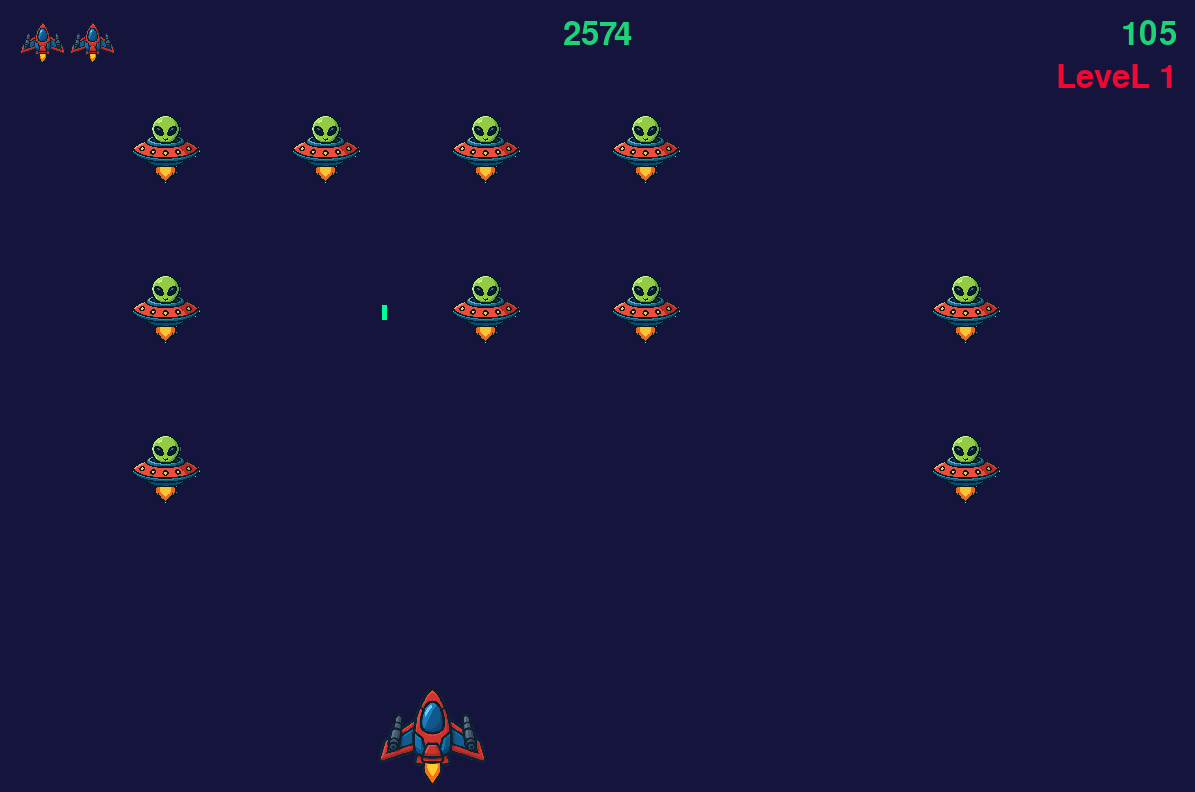
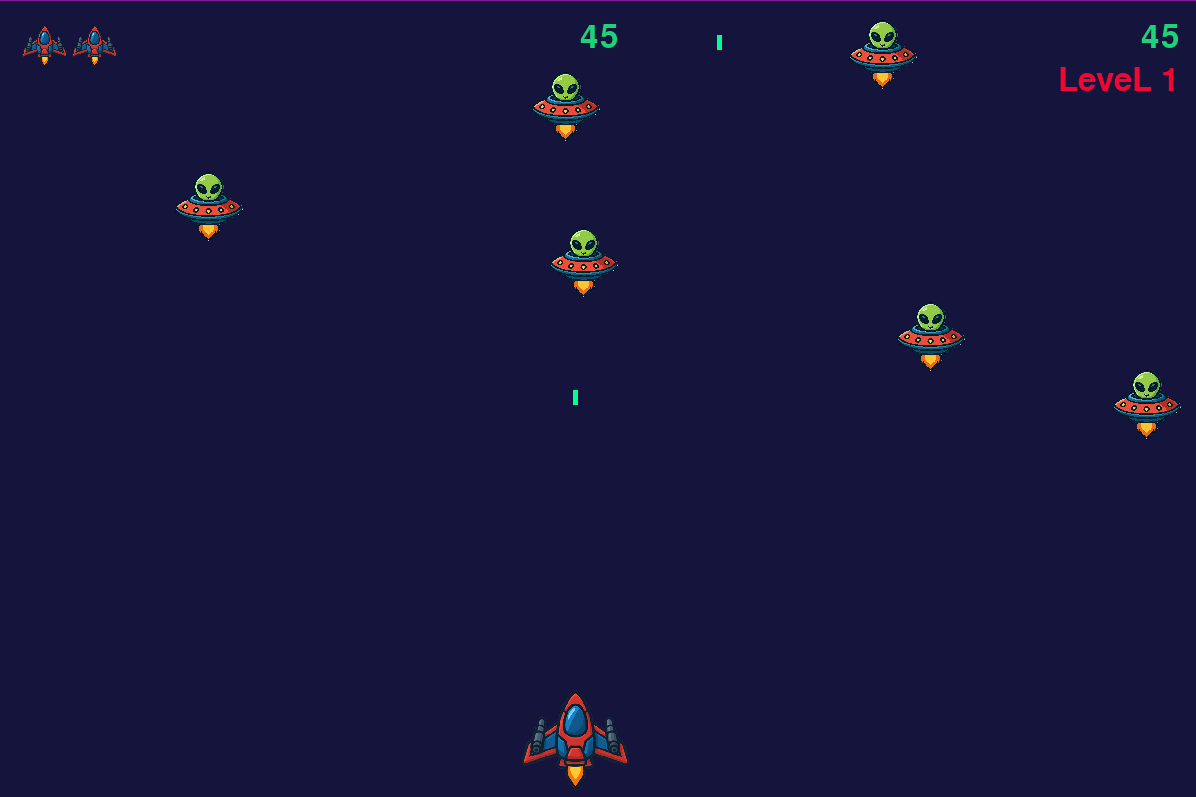
feat: changed alien movement from grid to ramdom

diff --git a/main.py b/main.py
@@ -128,41 +128,16 @@ class AlienInvasion:
     
     def _create_fleet(self):
         alien = Alien(self)
-        alien_width, alien_height = alien.rect.size
-
-        #  Вычисление кол-ва пришельцев по горизонтали
-        available_space_x = self.settings.screen_width - (2 * alien_width)
-        number_aliens_x = available_space_x // (2 * alien_width)
-        #  Вычисление кол-ва пришельцев по вертикали
-        available_space_y = self.settings.screen_height - (3 * alien_height)
-        number_aliens_y = available_space_y // (2 * alien_height)
-
-        #  Создаем флот
-        for x_num in range(number_aliens_x):
-            for y_num in range(number_aliens_y):
-                self._create_alien(x_num, y_num)
-
-    def _create_alien(self, x_num, y_num):
-        alien = Alien(self)
-        alien_width, alien_height = alien.rect.size
-        alien.rect.x = alien_width + (2 * alien_width * x_num)
-        alien.rect.y = alien_height + (2 * alien_height * y_num)
-        alien.x = alien.rect.x
-        self.aliens.add(alien)
-
-                  
-    def _check_fleet_edges(self):
-        """Реагирует на достижение прищельцеп края экрана"""
-        for alien in self.aliens.sprites():
-            if alien.check_edges():
-                self._change_fleet_direction()
-                break
-
-    def _change_fleet_direction(self):
-        """Опускает весь флот и меняет направление движения"""
-        for alien in self.aliens.sprites():
-            alien.rect.y += self.settings.fleet_drop_speed
-        self.settings.fleet_direction *= -1    
+        for one_alien in range(self.settings.aliens_number):
+            alien = Alien(self)
+            y = random.randrange(-350, -20)
+            x = random.randrange(100, self.settings.screen_width - 100)
+            alien.rect.y = y
+            alien.rect.x = x
+            alien.x = alien.rect.x
+            alien.y = alien.rect.y
+            self.aliens.add(alien)
+  
 
     def _ship_hit(self):
         """Обрабатывает столкновение корабля с пришельцем"""
@@ -193,7 +168,7 @@ class AlienInvasion:
 
     def _update_aliens(self):
         self.aliens.update()
-        self._check_fleet_edges()
+        #self._check_fleet_edges()
 
         #  Проверка коллизий "пришелец - корабль"
         if pygame.sprite.spritecollideany(self.ship, self.aliens):

diff --git a/src/alien.py b/src/alien.py
@@ -1,3 +1,4 @@
+import random
 import pygame
 from pygame.sprite import Sprite
 
@@ -7,6 +8,7 @@ class Alien(Sprite):
         super().__init__()
 
         self.screen = sg.screen
+        self.screen_rect = self.screen.get_rect()
         self.settings = sg.settings
 
         self.image = pygame.image.load('assets/images/alien.bmp')
@@ -18,6 +20,16 @@ class Alien(Sprite):
         self.rect.y = self.rect.height
 
         self.x = float(self.rect.x)
+        self.y = float(self.rect.y)
+
+        #  Создаем случайные значения для скорости и направления пришельцев
+        self.rand_direction = random.randrange(2)
+        if self.rand_direction == 0:
+            self.direction = -1
+        else:
+            self.direction = 1
+        self.x_speed = random.uniform(self.settings.x_min_speed, self.settings.x_max_speed)
+        self.y_speed = random.uniform(self.settings.y_min_speed, self.settings.y_max_speed)
 
     def check_edges(self):
         """Возвраащет True, если пришелец находится у края экрана"""
@@ -27,5 +39,12 @@ class Alien(Sprite):
 
     def update(self):
         """Перемещает пришельца вправо"""
-        self.x += self.settings.alien_speed_factor * self.settings.fleet_direction
+        self.x += self.x_speed * self.direction
         self.rect.x = self.x
+        self.y += self.y_speed
+        self.rect.y = self.y
+        self.change_direction()
+
+    def change_direction(self):
+        if self.rect.right > self.screen_rect.right or self.rect.left <= 0:
+            self.direction *= -1

diff --git a/src/settings.py b/src/settings.py
@@ -27,17 +27,26 @@ class Settings():
         """Инициализирует настройки, изменяющиейся в ходе игры."""
         self.ship_speed_factor = 0.5
         self.bullet_speed_factor = 1.0
-        self.alien_speed_factor = 0.2
+        self.x_min_speed = 0.02
+        self.x_max_speed = 0.1
+        self.y_min_speed = 0.02
+        self.y_max_speed = 0.05
+        self.aliens_number = 12
         #  Подсчет очков
         self.alien_points = 5
 
         #  fleet_direction = 1 обозначает движение вправо; а -1 - влево.
         self.fleet_direction = 1
 
+
     def increase_speed(self):
         """Увеличивает настройки скорости и стоимости пришельцев"""
         self.ship_speed_factor *= self.speedup_scale
         self.bullet_speed_factor *= self.speedup_scale
-        self.alien_speed_factor *= self.speedup_scale
+        self.x_min_speed *= self.speedup_scale
+        self.x_max_speed *= self.speedup_scale
+        self.y_min_speed *= self.speedup_scale
+        self.y_max_speed *= self.speedup_scale
+        self.aliens_number += 1
 
         self.alien_points = int(self.alien_points * self.score_scale)

diff --git a/README.md b/README.md
@@ -23,6 +23,8 @@ ___
 
 **Уникальные текстуры** - созданы с помощью нейросетей
 
+**Случайные движения инопланетян** - усовершенствованно стандартное перемещение сеткой
+
 
 ## Что реализовано
  - **Управление кораблем**
@@ -44,11 +46,12 @@ ___
 - **Доработка звуков**
 - **Добавить кнопку выход**
 - **Добавить глобальные рекорды, которые сохраняются даже если закрыть игру**
-- **Сделать движение пришельцев индивидуальным и случайным**
+- **Добавить новый тип пришельцев с очками жизни**
+- **Сделать постоянную стрельбу при удержании кнопки**
 
 ## Обновления
 ### v0.2.1
-- **Добавлен вывод уровня игры и жизней корабля**
+- **Движение пришельцев стало индивидуальным и случайным**
 
 
 ## Технические детали
